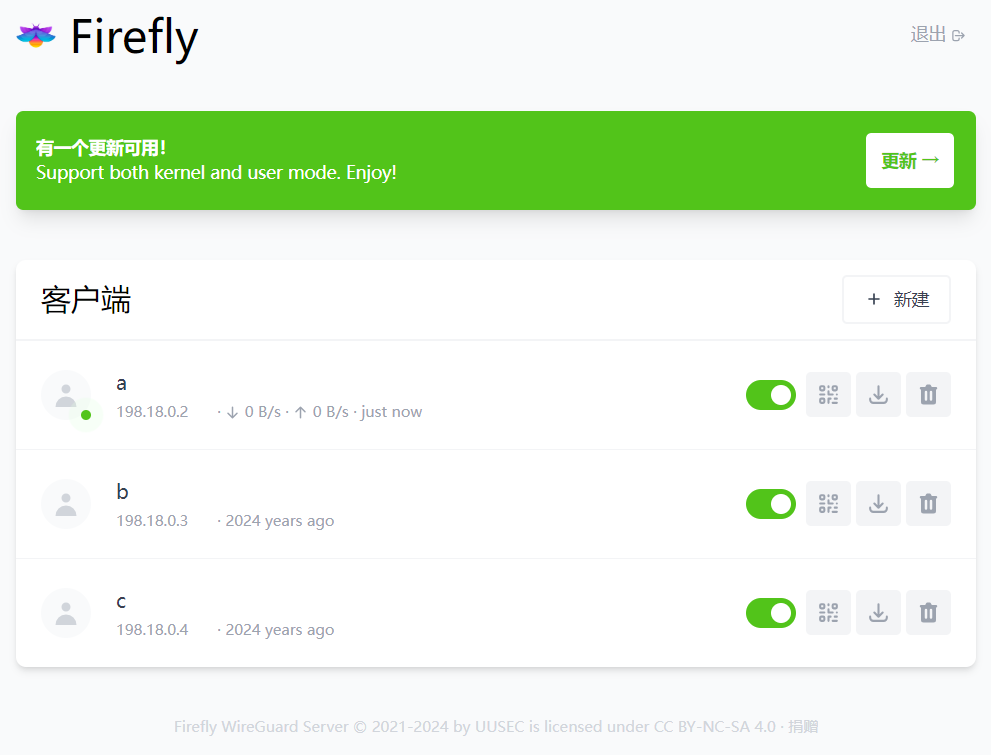
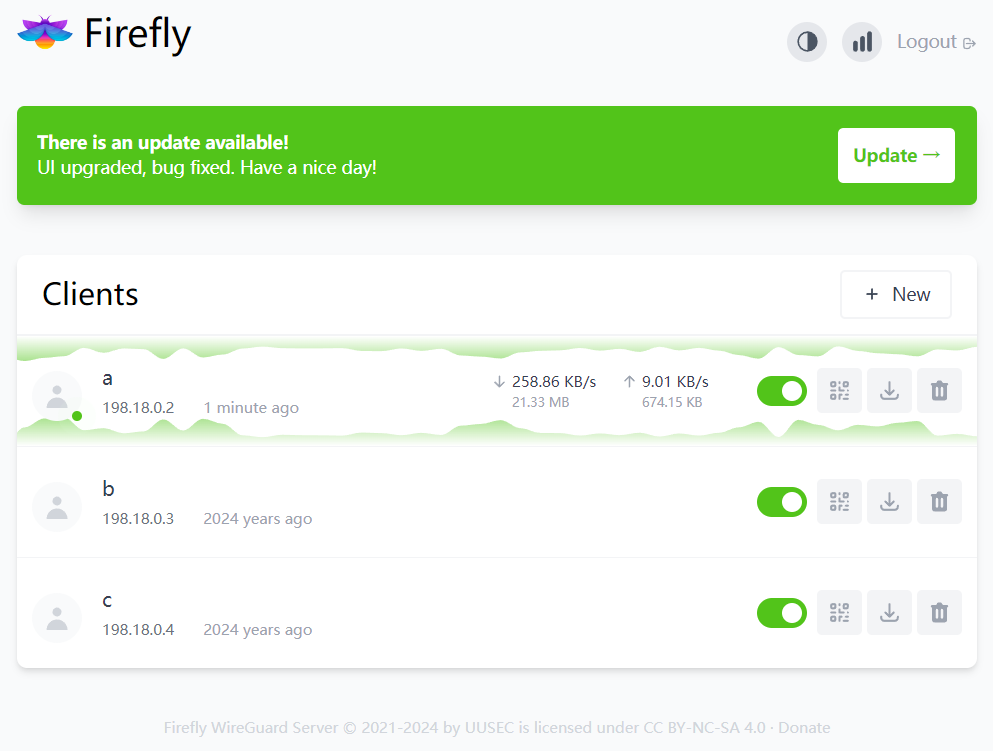
v3.0

diff --git a/README_EN.md b/README_EN.md
@@ -12,11 +12,11 @@
 <a href="https://github.com/Safe3/firefly/discussions"><img src="https://img.shields.io/github/discussions/Safe3/firefly">
 </p>
 <p align="center">
-  <a href="#features">Features</a> •
-  <a href="#usage">Usage</a> •
-  <a href="#credits">Credits</a> •
-  <a href="#contact">Contact</a> •
-  <a href="#license">License</a>
+  <a href="#dart-features">Features</a> •
+  <a href="#rocket-usage">Usage</a> •
+  <a href="#gift_heart-credits">Credits</a> •
+  <a href="#kissing_heart-contact">Contact</a> •
+  <a href="#key-license">License</a>
 </p>
 
 
@@ -36,7 +36,7 @@ Firefly is a simple and easy to install WireGuard server software, which can be 
 
 
 
-## Features
+## :dart: Features
 
 <h3 align="center">
   <img src="https://github.com/Safe3/firefly/blob/main/firefly.png" alt="firefly" width="700px">
@@ -44,28 +44,59 @@ Firefly is a simple and easy to install WireGuard server software, which can be 
 </h3>
 
 
- - Provide a simple and easy-to-use web management UI
- - Supports access to all WireGuard clients
- - No need for system installation of WireGuard components
- - Single file, no additional library dependencies
+ :green_circle: Provide a simple and easy-to-use web management UI
+
+ :purple_circle: Supports access to all WireGuard clients
+
+ :yellow_circle: No need for system installation of WireGuard components
+
+ :orange_circle: Single file, no additional library dependencies
+
+ :red_circle: Automatically apply for free SSL certificate
 
 
 
 
 
-## Usage
+## :rocket: Usage
 
 Firefly supports CPU architecture environments such as Linux x86 and ARM. The download address for the Firefly server is: https://github.com/Safe3/firefly/releases , WireGuard client download address: https://www.wireguard.com/install/ .
 
 
+- ### Server Installation
+
+Select the corresponding server, such as x86 environment, please download firefly-linux-amd64
+
+Add executable permissions：
+
+```bash
+chmod +x ./firefly-linux-amd64
+```
+
+Run frontend：
+
+```bash
+./firefly-linux-amd64
+```
+
+Run backend：
+
+```bash
+nohup ./firefly-linux-amd64 >/dev/null 2>&1 &
+```
+
+Run in container：download docker-compose.yml and execute "docker compose up -d"
+
+Visit http://ip:50121 ,login to the management backend with the default password firefly
+
+> :biohazard: ***If the server is using cloud services, remember to open the UDP port 50120 and TCP port 50121 required for Firefly***
 
 
 
 
+- ### Server Configuration
 
-### Server Configuration
-
-The first time running firefly will generate a config.json configuration file in the software root directory, as follows:
+The first time running firefly will generate a conf/config.json configuration file in the software root directory, as follows:
 
 ```json
 {
@@ -75,6 +106,8 @@ The first time running firefly will generate a config.json configuration file in
  "auto_ssl": false,           // Is the firefly web enabled to automatically obtain Let's Encrypt certificate issuance? If enabled, please change the port to 443
  "password": "firefly",       // Firefly web management login authentication password
  "lang": "en",                // Firefly web management UI language
+ "ui_traffic_stats": true,    // Firefly web management traffic chart switch
+ "ui_chart_type": 2,          // Firefly web management traffic chart type
  "log_level": "error",        // Firefly server logging level
  "wg_private_key": "YBw5KAo1vM2mz35GLhZB01ZNYWJYWdGZNQT1MebuCHk=",  // WireGuard server private key
  "wg_device": "eth0",                   // WireGuard server in/out traffic network card name
@@ -89,7 +122,7 @@ The first time running firefly will generate a config.json configuration file in
 
 
 
-### Client configuration
+- ### Client configuration
 
 After creating multiple clients in the web management UI on the server side, import the WireGuard client configuration in the following way.
 
@@ -101,7 +134,7 @@ After creating multiple clients in the web management UI on the server side, imp
 
 
 
-## Credits
+## :gift_heart: Credits
 
 Thanks to all the amazing [community contributors for sending PRs](https://github.com/Safe3/firefly/graphs/contributors) and keeping this project updated. ❤
 
@@ -113,12 +146,12 @@ If you have an idea or some kind of improvement, you are welcome to contribute a
 </a>
 </p>
 
-## Contact
+## :kissing_heart: Contact
 
 If you want to support more features such as access controling, advanced routing, bastion machines, peer-to-peer transmission, etc., please contact us.
 
 
 
-## License
+## :key: License
 
 Firefly is only for personal free use. If you want to use it for commercial purposes, please contact us for commercial authorization.

diff --git a/README.md b/README.md
@@ -50,7 +50,7 @@
 
 
 <h3 align="center">
-  <img src="https://github.com/Safe3/firefly/blob/main/firefly.png" alt="firefly" width="700px">
+  <img src="https://github.com/Safe3/firefly/blob/main/firefly_cn.png" alt="firefly" width="700px">
   <br>
 </h3>
 
@@ -94,6 +94,8 @@
  "auto_ssl": false,           // 萤火虫web管理后台是否启用自动获取Let's Encrypt签发证书，若启用请将端口改为443
  "password": "firefly",       // 萤火虫web管理后台登录认证密码
  "lang": "en",                // 萤火虫web管理后台多语言支持，中文请将en改为cn
+ "ui_traffic_stats": true,    // 萤火虫web管理后台是否开启流量图特效
+ "ui_chart_type": 2,          // 萤火虫web管理后台流量特效图类型
  "log_level": "error",        // 萤火虫服务端日志记录等级
  "wg_private_key": "YBw5KAo1vM2mz35GLhZB01ZNYWJYWdGZNQT1MebuCHk=",  // 萤火虫服务端 WireGuard 私钥
  "wg_device": "eth0",                   // 萤火虫服务端 WireGuard 出入流量网卡名称
